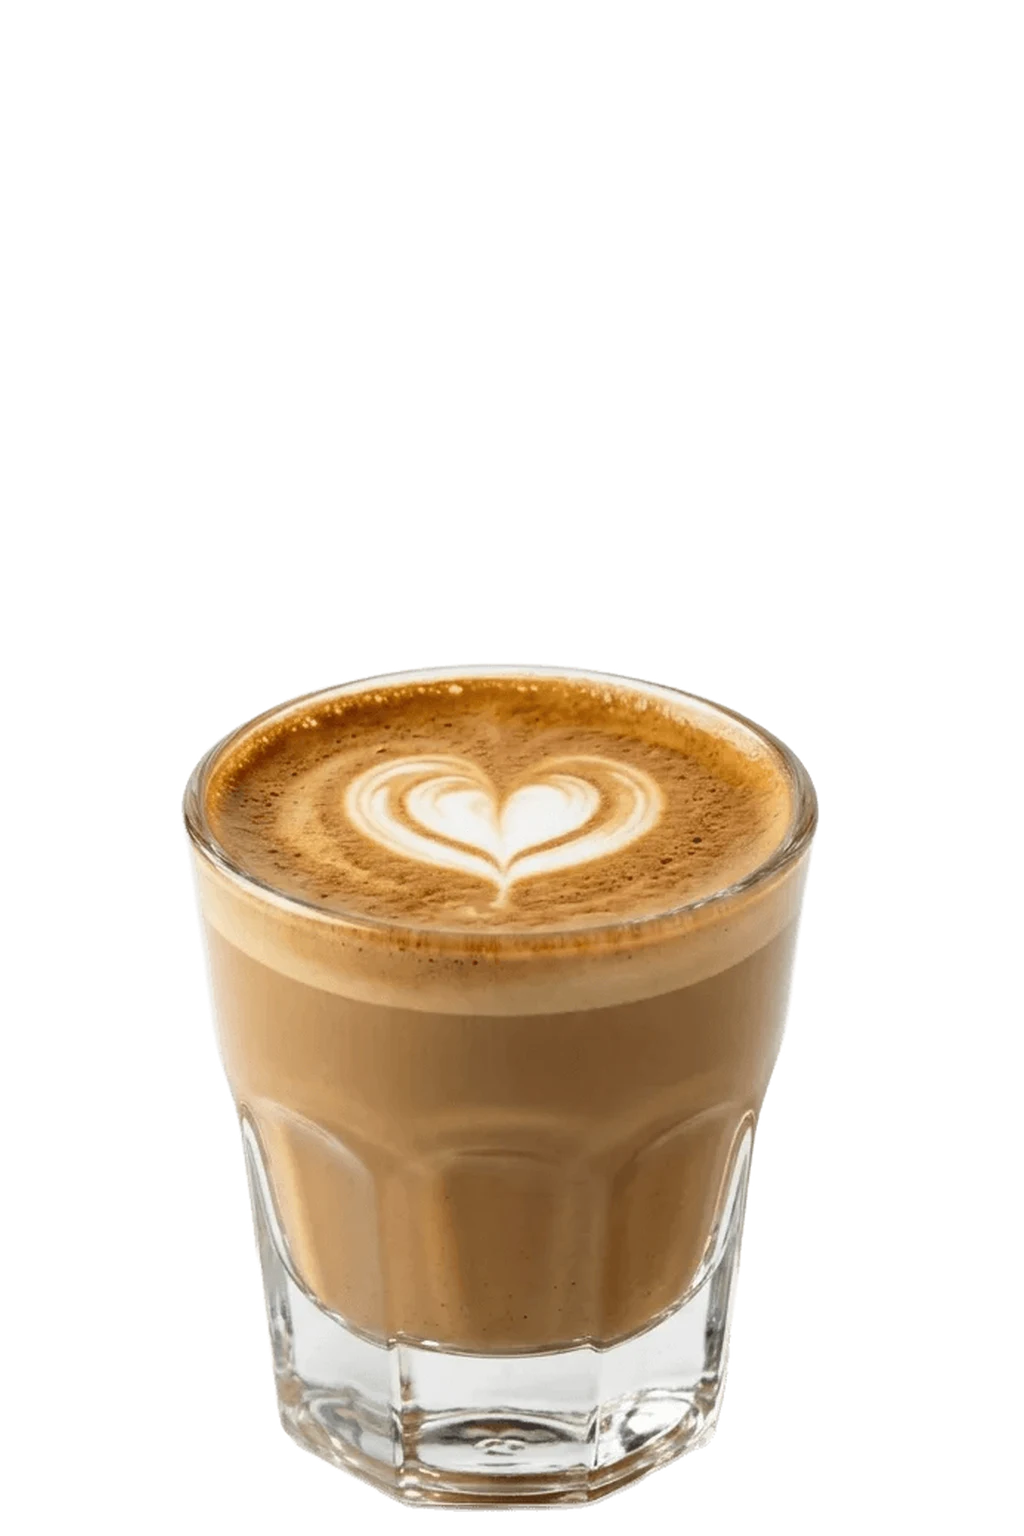
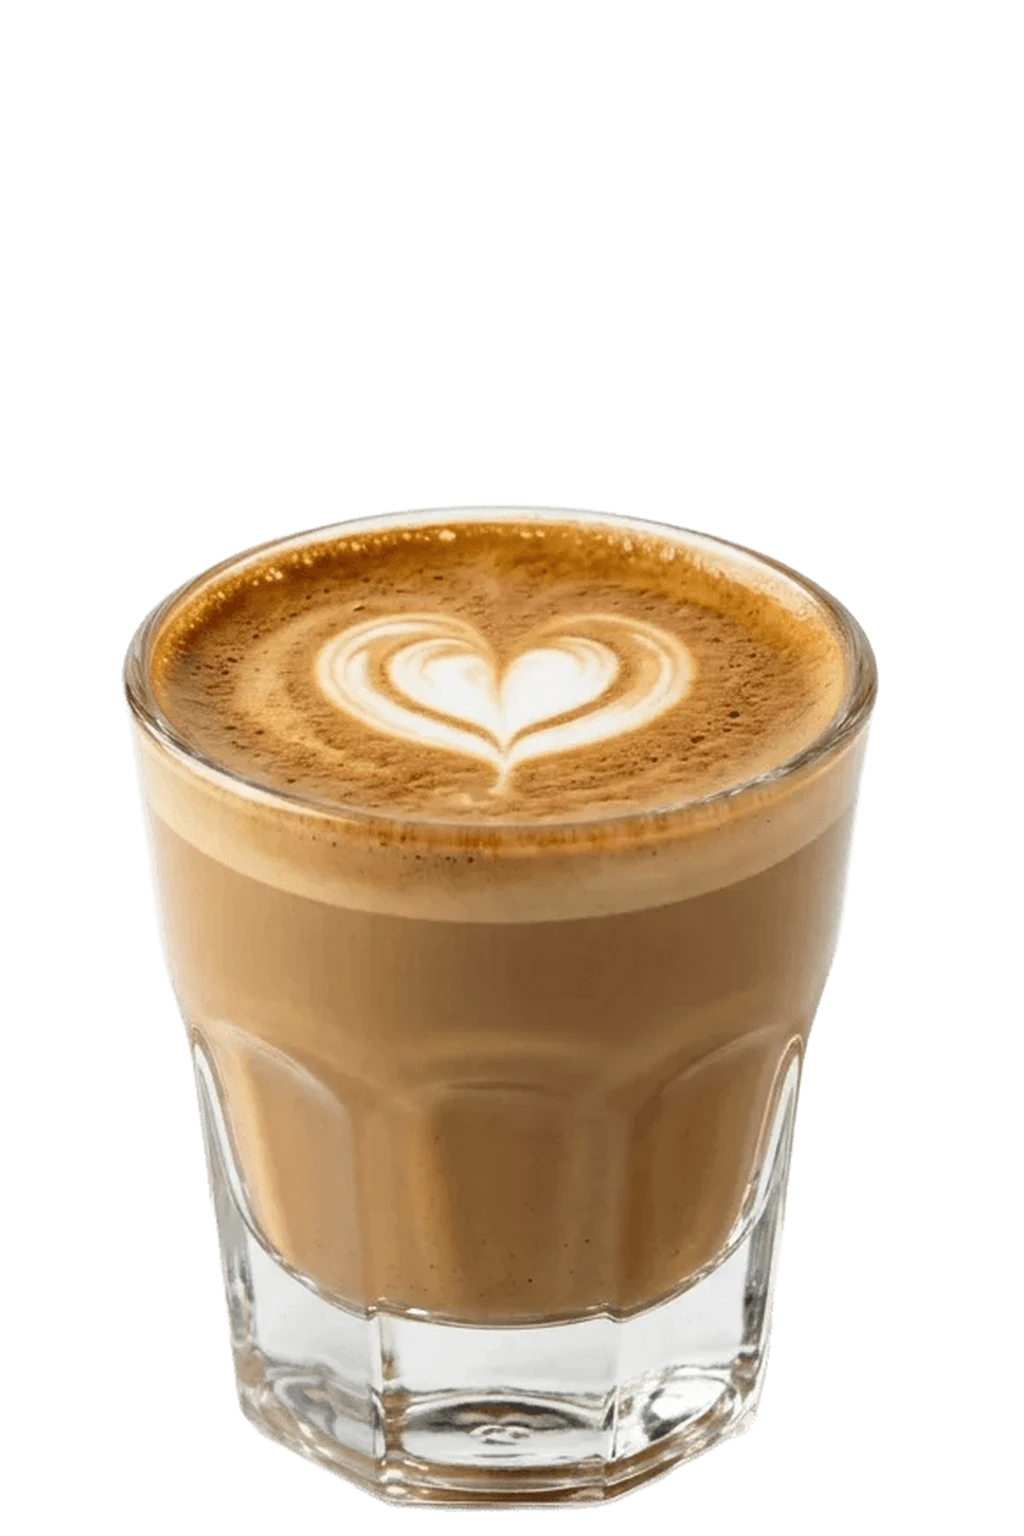
Locations: taller board so the last shop and the hours fit; readout under the clock
On a desktop the section is now at least 55rem (or the window's height), so
Johar Town and 'now pouring' no longer fall under the fold on shorter
windows. The open/close readout hangs just under the dial, clear of the cup
and the second hand, and the evening cortado is a little larger.

Claude-Session: https://claude.ai/code/session_012i4ubs6s4YtqgTVK4SFGYP

Changed region(s): [[0.125, 0.3125, 0.875, 1.0], [0.4062, 0.7188, 0.5, 0.75], [0.3438, 0.75, 0.375, 0.7812]]

diff --git a/app/sections.css b/app/sections.css
@@ -690,8 +690,6 @@
 .dial .dial-read span { display: block; width: auto; height: auto; }
 .dial-read span:first-child { color: #121212; }
 .shop-focus .dial-read { color: #9a5a22; transition-delay: 0ms; }
-/* on a phone the dial is too small to fit it between the seven and the five: it sits just under the dial */
-@media (max-width: 639.98px) { .dial-read { top: calc(100% + 1.4rem); font-size: 0.625rem; } }
 
 /* the shops: pointing at one hands it the clock */
 .locs-list [data-shop] { cursor: pointer; outline: none; transition: opacity 300ms; }
@@ -720,7 +718,7 @@
   78%, 100% { opacity: 0; transform: translateY(2.6rem) scaleY(1.1); }
 }
 .loc-fx .steam { position: absolute; left: var(--x); top: var(--top, 8%); width: 11%; height: 22%; border-radius: 50%; background: radial-gradient(closest-side, rgb(110 98 88 / 0.2), transparent); filter: blur(5px); opacity: 0; animation: steam-rise 4.4s ease-out infinite var(--d); }
-.loc-fx[data-cup="evening"] .steam { --top: 22%; }
+.loc-fx[data-cup="evening"] .steam { --top: 17%; }
 @keyframes steam-rise {
   0% { opacity: 0; transform: translateY(25%) scaleX(0.55); }
   30% { opacity: 1; }
@@ -733,3 +731,13 @@
   .loc-fx { display: none; }
   .dial-tick, .dial .dial-nums, .dial-arc, .hand, .dial-read, .dial-now { transition: none; }
 }
+
+/* The locations board is taller than the others (three shops with their badges,
+   the hours, what's pouring): on a desktop it is at least 55rem, or the window's
+   height when that is more, so the last shop and the hours never fall under the
+   fold. The readout under the cup sits on a patch of the face, so the second
+   hand passes behind it rather than through the words. */
+@media (min-width: 1024px) { .light.locs { height: auto; min-height: max(100lvh, 55rem); } }
+/* the readout hangs just under the clock, clear of the cup and the numbers */
+.dial-read { top: calc(100% + 1.1rem); transform: translate(-50%, 0); font-size: 0.6875rem; }
+@media (max-width: 1023.98px) { .dial-wrap { margin-bottom: 1.75rem; } }
